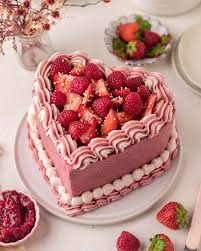
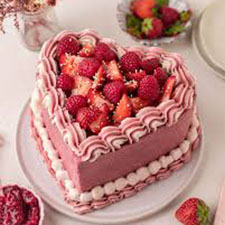
Added Cheesecake Image's & fixed Index

diff --git a/cheesecake.html b/cheesecake.html
@@ -6,35 +6,33 @@
     <body class="extend">
         <header>
             <div class="header">
-                <img>
-                <header>Cheesecake</header>
+                <header class="header">Cheesecake</header>
             </div>
-            <nav><a href="cheesecake.html">Cheesecake</a> | <a href="cake.html">Cake</a></nav>
+            <nav class="nav" align="right"><a href="index.html">Home</a> | <a href="cheesecake.html">Cheesecake</a> | <a href="cake.html">Cake</a></nav>
         </header>
         <div class="centered">
             <header align="center">Cheesecake is better because?</header>
-            <p align="center">It's better because, it's better.</p>
+            <p align="center">It's better because, it's "unhealthy".</p>
         </div>
         <div class="table">
-            <p class="left">img</p>
-            <table align="center">
+            <table align="center" class="table-color">
                 <tr>
+                    <th>Pics</th>
+                    <th>of</th>
                     <th>Cheesecake</th>
-                    <td>&nbsp;&nbsp;&nbsp;&nbsp;&nbsp;&nbsp;&nbsp;&nbsp;&nbsp;&nbsp;&nbsp;&nbsp;&nbsp;&nbsp;&nbsp;&nbsp;&nbsp;&nbsp;&nbsp;&nbsp;&nbsp;&nbsp;&nbsp;&nbsp;&nbsp;</td>
-                    <th>Cake</th>
                 </tr>
                 <tr>
-                    <td>img</td>
-                    <td>img</td>
-                    <td>img</td>
+                    <td><img src="assets/cheesecake/blueberryCheeseCake.jpeg"></td>
+                    <td><img src="assets/cheesecake/chocoCheeseCake.jpeg"></td>
+                    <td><img src="assets/cheesecake/fancyRedCheeseCake.jpeg"></td>
                 </tr>
                 <tr>
-                    <td>img</td>
-                    <td>img</td>
-                    <td>img</td>
+                    <td><img src="assets/cheesecake/lemonCheeseCake.jpeg"></td>
+                    <td><img src="assets/cheesecake/raspberryCheeseCake.jpeg"></td>
+                    <td><img src="assets/cheesecake/strawberryCheeseCake.jpeg"></td>
                 </tr>
             </table>    
         </div>
     </body>
-    <footer></footer>
+    <footer>Copyright 2025 | Images were stolen from many sources | Images were Photoshoped to be Square</footer>
 </html>

diff --git a/index.html b/index.html
@@ -6,35 +6,14 @@
     <body class="extend">
         <header>
             <div class="header">
-                <p class="left" valign="top" align="left">img</p>
                 <header>Cheesecake vs. Cake</header>
             </div>
-            <nav><a href="cheesecake.html">Cheesecake</a> | <a href="cake.html">Cake</a></nav>
+            <nav class="nav" align="right"><a href="index.html">Home</a> | <a href="cheesecake.html">Cheesecake</a> | <a href="cake.html">Cake</a></nav>
         </header>
         <div class="centered">
-            <header align="center">Which is Better?</header>
-            <p align="center">This is a website about the simalarities and differences between Cheesecake and Cake.</p>
+            <header align="center">Which is better?</header>
         </div>
-        <div class="table">
-            <p class="left">img</p>
-            <table align="center">
-                <tr>
-                    <th>Cheesecake</th>
-                    <td>&nbsp;&nbsp;&nbsp;&nbsp;&nbsp;&nbsp;&nbsp;&nbsp;&nbsp;&nbsp;&nbsp;&nbsp;&nbsp;&nbsp;&nbsp;&nbsp;&nbsp;&nbsp;&nbsp;&nbsp;&nbsp;&nbsp;&nbsp;&nbsp;&nbsp;</td>
-                    <th>Cake</th>
-                </tr>
-                <tr>
-                    <td>img</td>
-                    <td>img</td>
-                    <td>img</td>
-                </tr>
-                <tr>
-                    <td>img</td>
-                    <td>img</td>
-                    <td>img</td>
-                </tr>
-            </table>    
-        </div>
+        <p align="center" class="color">Is it Cheesecake or is it Cake, Click the pages in the top right to learn more.</p>
     </body>
-    <footer></footer>
+    <footer>Copyright 2025 | Images were stolen from many sources | Images were Photoshoped to be Square</footer>
 </html>

diff --git a/cake.html b/cake.html
@@ -8,17 +8,16 @@
             <div class="header">
                 <header>Cake</header>
             </div>
-            <nav><a href="cheesecake.html">Cheesecake</a> | <a href="cake.html">Cake</a></nav>
+            <nav align="right"><a href="index.html">Home</a> | <a href="cheesecake.html">Cheesecake</a> | <a href="cake.html">Cake</a></nav>
         </header>
         <div class="centered">
             <header align="center">Cake is better because?</header>
-            <p align="center">It's better because, it's better.</p>
+            <p align="center">It's not better because, it's "healthier".</p>
         </div>
         <div class="table">
-            <p class="left">img</p>
-            <table align="center">
+            <table align="center" class="table-color">
                 <tr>
-                    <th>Types</th>
+                    <th>Pics</th>
                     <th>of</th>
                     <th>Cake</th>
                 </tr>
@@ -35,5 +34,5 @@
             </table>    
         </div>
     </body>
-    <footer>Copyright 2025 | Images were stolen from many sources</footer>
+    <footer>Copyright 2025 | Images were stolen from many sources | Images were Photoshoped to be square</footer>
 </html>

diff --git a/style.css b/style.css
@@ -1,28 +1,28 @@
 body.extend{
-width: 1000px;
+width: 100%;
 font-family: comic sans ms;
+background-color: #ffdccc;
 }
 
 div.header{
+padding-bottom: 6px;
 float: left;
 margin: 0 auto;
 width: 300px;
+background-color: #fcb1a6;
 }
 
 nav{
 float: right;
-margin-right: 0;
-max-width: 150px;
+padding-right: 13px;
+background-color: #fcb1a6;
 }
 
 div.centered{
 margin: 0 auto;
-max-width: 1000px;
-width: 1000px;
-}
-
-p.left{
-float: left;
+width: 100%;
+padding-bottom: 6px;
+background-color: #fcb1a6;
 }
 
 div.table{
@@ -31,4 +31,23 @@ margin: auto 250;
 max-width: 300px;
 border-color: black;
 border-width: 10px;
+}
+
+table.table-color{
+background: #fb6376;
+padding-left: 3px;
+padding-right: 3px;
+padding-bottom: 3px;
+}
+
+p.color{
+background: #fb6376;
+padding: 10px;
+border-radius: 10px;
+}
+
+footer{
+width: 1160px;
+padding: 3px;
+background-color: #fcb1a6;
 }
